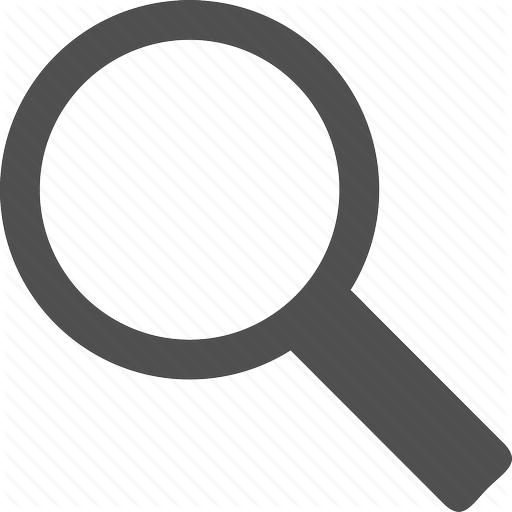
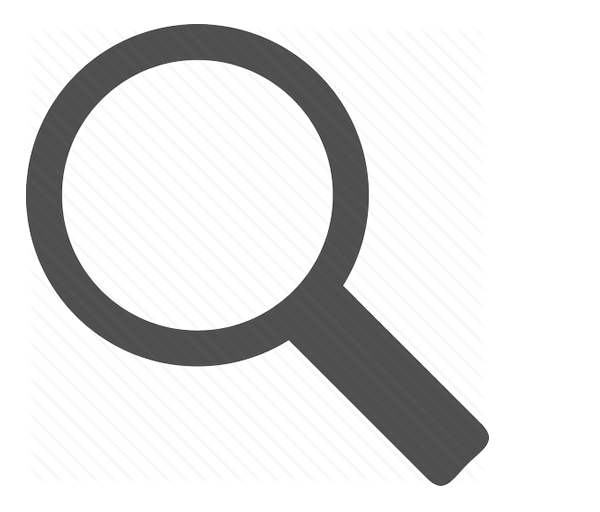
搜尋框的圖片、CSS修改
將搜尋框調整可滿版

Changed region(s): [[0.0, 0.0, 1.0, 1.0], [0.1562, 0.5625, 0.1875, 0.5938]]

diff --git a/style.css b/style.css
@@ -96,8 +96,8 @@ div{padding:0; margin:0; border:0; box-sizing: border-box;}
 .header_search_form input[type=text]:focus {
 	background-color: white;
 	background-image: url(images/searchicon_dark.png);
-	background-position: 105px 5px;
-    width: 130px;
+	background-position: right 5px;
+    width: 300%;
 }
 /*header END*/
 
